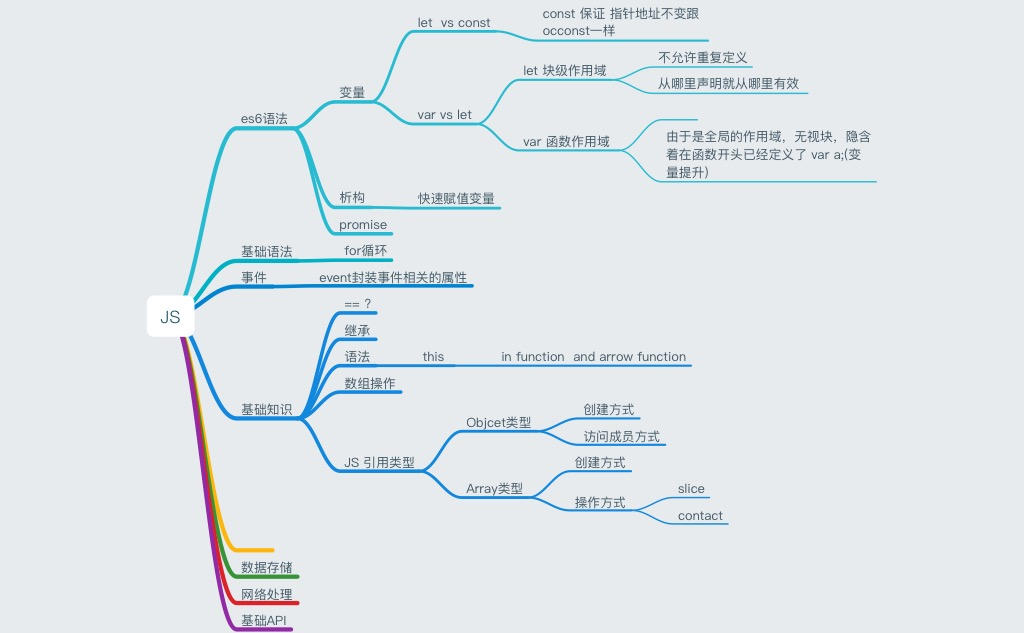
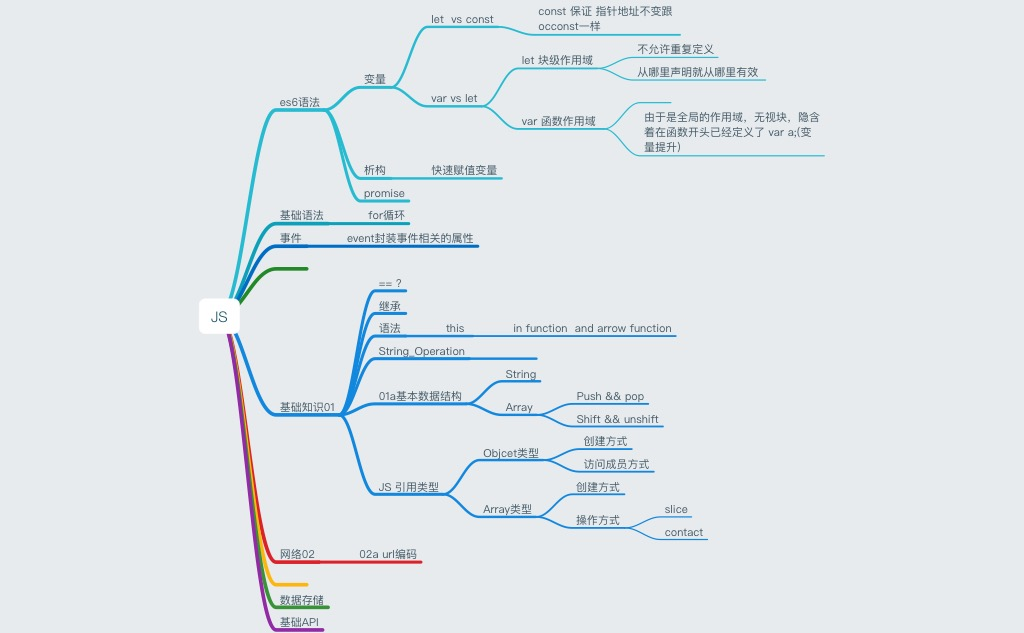
finish

Changed region(s): [[0.1562, 0.0, 0.8438, 1.0]]

diff --git a/0a2-基本数据结构/数组的操作/index.html b/0a2-基本数据结构/数组的操作/index.html
@@ -1,0 +1,63 @@
+<html>
+<head>
+  <meta charset="UTF-8">
+  <title>Document</title>
+  <script type="text/javascript">
+    // 数组 增加
+    var ar1 = [1,2,3];
+    var ar2 = [4,5];
+
+    // 1. 数组的增加
+    var ar3 = ar1.concat(ar2,ar1);
+    console.log(ar3);
+    ar3.push(100);
+    console.log(ar3);
+
+    // 2.A.数组 push -- pop
+    // === push
+    var arr001 = [1,2,3];
+    arr001.push(4,6,7);
+    console.log(arr001);
+    // === pop
+    arr001.pop();
+    console.log(arr001);
+    arr001.pop();
+    console.log(arr001);
+
+    //2.B.数组   shift;unshift
+    var arr002 =[0,1,2];
+    arr002.unshift(-1,-2);
+    console.log(arr002);
+    arr002.shift();
+    console.log(arr002);
+
+    // 3. forEach
+    const aqq = [1,2,3,4];
+    aqq.forEach(function(ele){
+        console.log(ele * 10);
+    });
+
+
+
+
+    // 4.filter
+    var arry004 = ["jimm","tom","davide"]
+    console.log(
+      arry004.filter((ele,index) =>
+        ele.length >4
+     )
+    );
+
+
+  let a =   encodeURIComponent("tang")
+
+  console.log(a);
+
+
+
+  </script>
+</head>
+<body>
+  hello world
+</body>
+</html>

diff --git a/ES6语法/program.js b/ES6语法/program.js
@@ -11,9 +11,26 @@ function addLoadEvent(func) {
   }
 }
 // addLoadEvent(testArrowFunction())
-addLoadEvent(xiGou001())
+addLoadEvent(testF())
 // addLoadEvent(shortV());
 
+
+
+function testF(){
+
+
+  function name(data){
+
+      let a = {
+        data
+
+      }
+      console.log(a);
+    }
+
+    let c = 100;
+  name(c);
+}
 
 function xiGou001(){
   var origin = {
@@ -46,12 +63,11 @@ function expandF(){
   const object = {a:1,b:4};
   const object0 = object
   console.log(object0);
-
   const object2 = { ...object };
   // 其实和普通的指赋值没有太大区别
   console.log(object2);
   // 2. 覆盖 ， b是一个新的对象
-  const object3 = {...object,b:100,c:1000};
+  const object3 = {...object,a:100,b:1000};
   console.log(object3);
 }
 

diff --git a/02网络/a_URL编码.html b/02网络/a_URL编码.html
@@ -1,0 +1,23 @@
+<html>
+
+<head>
+  <meta charset="UTF-8">
+  <title>Document</title>
+
+  <script type="text/javascript">
+    var test1="http://www.haorooms.com/My first/";
+    var nn=encodeURI(test1);
+    console.log(nn);
+    var bb=encodeURIComponent(test1);
+    console.log(bb);
+
+
+
+  </script>
+
+
+</head>
+<body>
+  <div>hello world</div>
+</body>
+</html>

diff --git a/0a2-基本数据结构/string操作/index.html b/0a2-基本数据结构/string操作/index.html
@@ -1,0 +1,18 @@
+<html>
+<head>
+  <meta charset="UTF-8">
+  <title>Document</title>
+  <script type="text/javascript">
+    console.log("operation --- string");
+    let a = ""
+    console.log(a == null);
+
+
+
+
+  </script>
+</head>
+<body>
+  hello world
+</body>
+</html>

diff --git a/JS语法/index.html b/JS语法/index.html
@@ -18,7 +18,12 @@
     }
     testFor();
 
-
+    let age = 100;
+    var a = {
+      name:"feng",
+      age
+    }
+    console.log(a);
 
 
   </script>

diff --git a/0a2-基本数据结构/数组的操作/array_operation.md b/0a2-基本数据结构/数组的操作/array_operation.md
@@ -1,0 +1,42 @@
+
+## js中的变量
+js的变量松散型的，可以赋值任何类型的值
+
+var :
+0. 省略 var 是全局作用域,
+1. 绑定的作用域是整个函数，
+2. 在作用域会发生变量提升(也就是可以在这个声明之前使用变量，但是变量的值是undefined)
+3. 可以重复声明
+
+let:
+特点:
+1. 绑定的作用域是块级别
+2. 没有变量提升,在他绑定的区域必须先声明
+3. 不允许重复声明
+
+const:
+特点：
+1. 作用方式跟let 一样，
+2. 声明的是一个常量， 指向的数据内存地址不能变,对于常量就是值不能变，对于对象，只能保证对象的内存地址不变，但是对象的数据结构还是能变化的
+
+
+## 数据类型
+### 基本类型
+1. null
+  a.空指针，应该主动赋值 ,
+  b. == object
+
+2. undefined
+  a. 初始值，变量没有赋值时候的状态
+
+
+3. number类型
+a.没有区分整数和浮点，都按照浮点型的方式去存储.
+b. 0.1 + 0.2 != 0.3
+ieee754标准的方式去编码，
+ieee754 不能完全准确的表达小数
+解决的方式：
+确定一个精度范围,小于这个范围都为true
+c. 特殊的值:
+(+-)infinity最大值;
+nan:not a number: 在某些操作期望返回number，却不是的时候

diff --git a/ES6语法/ES6语法简析.md b/ES6语法/ES6语法简析.md
@@ -55,7 +55,7 @@ function expandF(){
   const object2 = { ...object };
   // 1.其实和普通的指赋值没有太大区别
   console.log(object2);
-  // 2. 覆盖 ， b是一个新的对象
+  // 2. 覆盖 ，有相同的变量名，后面会覆盖前面
   const object3 = {...object,b:100,c:1000};
   console.log(object3);
 }
